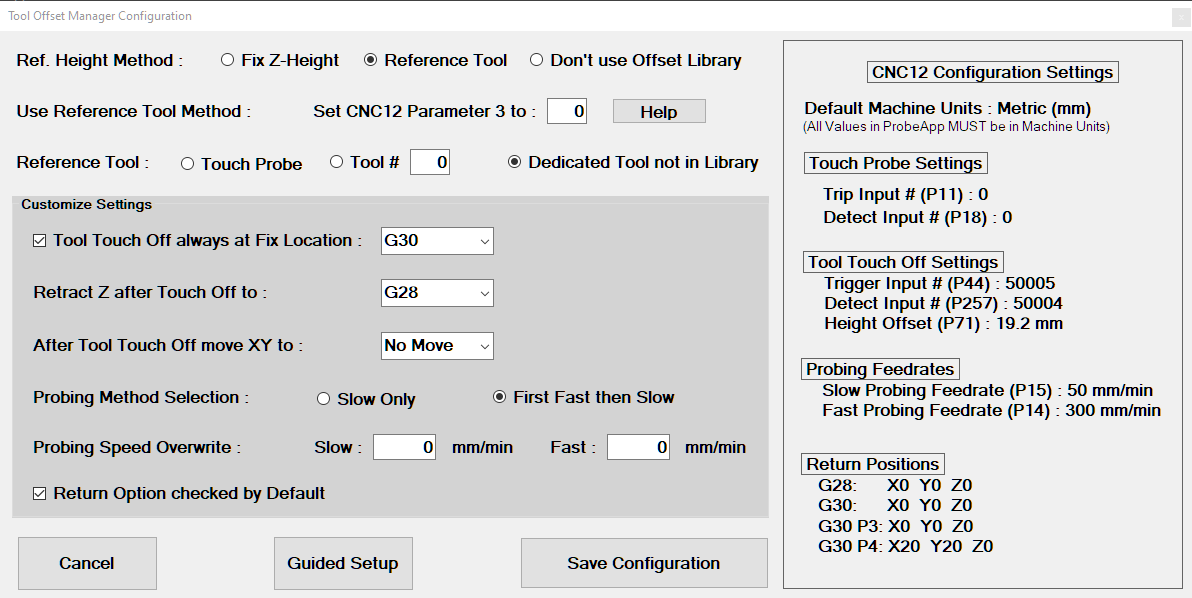
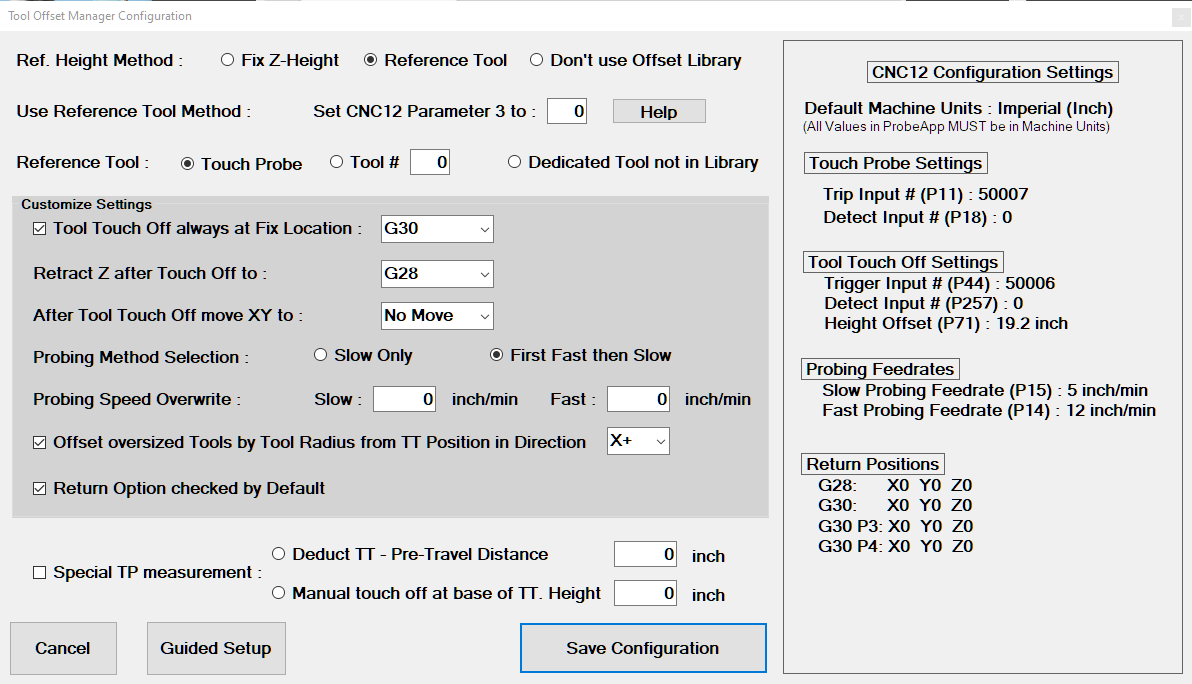
doc update

diff --git a/docs/ReferenceMethod.md b/docs/ReferenceMethod.md
@@ -22,7 +22,7 @@ Therefore it might be a better option to use a dedicated tool holder with a tool
 
 The configuration page for the **Reference Tool Method** does offer the following settings:
 
-![](/images/pa123.png)
+![](/images/pa105.PNG)
 
 ### CNC12 Configuration Settings
 
@@ -125,6 +125,22 @@ The currently configured CNC12 probing speeds are listed on the right side of th
 
 The Tool Offset Manager main screen has a Return check box that will tell the ProbeApp to re-open after data has been saved or tools have been measured.
 This check box here in the configuration screen configures if the Return check box on the Tool Offset Manager main screen should be checked by default or not.
+
+### Special TP measurement
+
+![](/images/pa139.png)
+
+Measuring a Height Offset of a Touch Probe with a Tool Touch Off device can be problematic with some TT devices. 
+Depending on the spring load of the TP and the TT it can be either device that is generating the trigger signal when the TP is touched off on the TT. 
+With most probing devices this is not a problem as the axial pre-travel is negligable.
+However there are some TT devices like the popular, wireless DT02 that has a significant pre=travel distance that can't be ignored.
+
+The **Special TP measurement** selection offers two methods to handle those situations when the TT has significant pre-travel"
+
+* The **Deduct TT-Pre-Travel Distance** option allows to compensate for the TT's pre-travel. Just measure how much the TT travels from the extended position to the point when the trigger signal is beeing generated and enter that distance into the input field. Any touch off with a TP on top of the TT will now be corrected with the Pre-Travel-Distance.
+
+* The **Manual touch off at base of TT** option will not touch off the TP on top of the TT and the user will be asked to touch off the TP on the surface the TT is standing on.
+The TT Height value will then be used to calculate the correct Height Offset. Note that the Height value needed here is not the height of the extended TT. This must be the Height from the point where the TT is generating the trigger signal to the base of the TT.
 
 ### Button Functions
 

diff --git a/docs/FixHeight.md b/docs/FixHeight.md
@@ -122,6 +122,22 @@ The currently configured CNC12 probing speeds are listed on the right side of th
 The Tool Offset Manager main screen has a Return check box that will tell the ProbeApp to re-open after data has been saved or tools have been measured.
 This check box here in the configuration screen configures if the Return check box on the Tool Offset Manager main screen should be checked by default or not.
 
+### Special TP measurement
+
+![](/images/pa139.png)
+
+Measuring a Height Offset of a Touch Probe with a Tool Touch Off device can be problematic with some TT devices. 
+Depending on the spring load of the TP and the TT it can be either device that is generating the trigger signal when the TP is touched off on the TT. 
+With most probing devices this is not a problem as the axial pre-travel is negligable.
+However there are some TT devices like the popular, wireless DT02 that has a significant pre=travel distance that can't be ignored.
+
+The **Special TP measurement** selection offers two methods to handle those situations when the TT has significant pre-travel"
+
+* The **Deduct TT-Pre-Travel Distance** option allows to compensate for the TT's pre-travel. Just measure how much the TT travels from the extended position to the point when the trigger signal is beeing generated and enter that distance into the input field. Any touch off with a TP on top of the TT will now be corrected with the Pre-Travel-Distance.
+
+* The **Manual touch off at base of TT** option will not touch off the TP on top of the TT and the user will be asked to touch off the TP on the surface the TT is standing on.
+The TT Height value will then be used to calculate the correct Height Offset. Note that the Height value needed here is not the height of the extended TT. This must be the Height from the point where the TT is generating the trigger signal to the base of the TT.
+
 ### Button Functions
 
 ![](/images/pa117.png)

diff --git a/docs/ToolSetter.md b/docs/ToolSetter.md
@@ -69,7 +69,7 @@ These are the possible values:
 #29500 = 9  : OutCor
 #29500 = 10 ; Single
 #29500 = 11 ; Slot
-#29500 = 12 ; ToolOffsetter
+#29500 = 12 ; ToolOffsetter (Tool Library Manager)
 #29500 = 13 ; ToolSetter
 #29500 = 14 ; TripleCorner
 #29500 = 15 ; Web
@@ -102,6 +102,7 @@ G53 Z0                                      ;Default
 ;G30 G91 Z0
 ;G30 P3 G91 Z0
 ;G30 P4 G91 Z0
+G90
 
 ;------------------------------------------------------------------------------
 ; Display Tool Change Message
